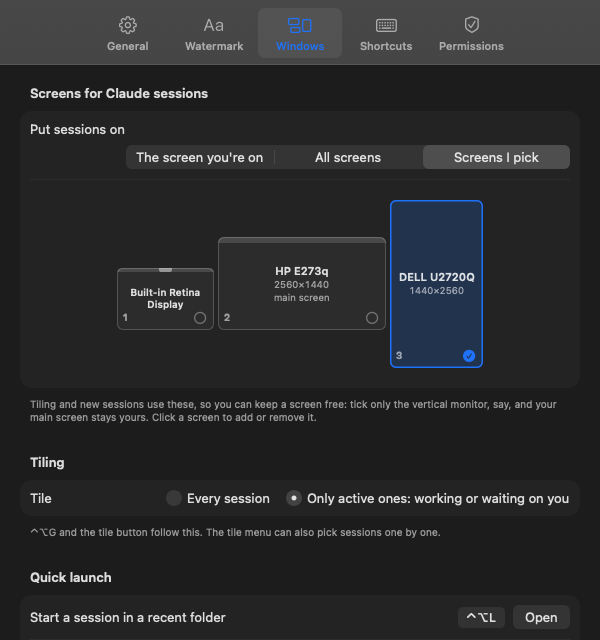
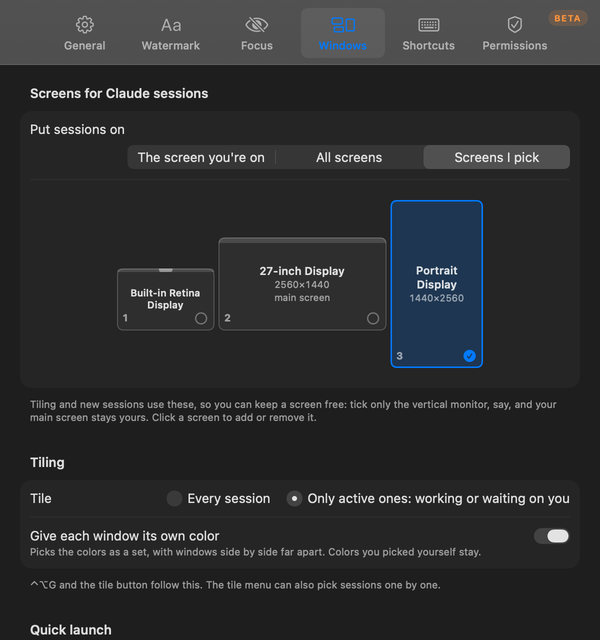
Demo displays get generic names (renders, tests, site and README screenshots)
Claude-Session: https://claude.ai/code/session_015b5oNbYrBUp2FJnxKCXLaE

diff --git a/test/tile.test.js b/test/tile.test.js
@@ -17,20 +17,20 @@ const L = await import('../lib/launch.js');
 // A laptop (left, notch), a landscape main screen, and a portrait monitor on the right.
 const screens = S.sortScreens(
   [
-    { uuid: 'MAIN', name: 'HP E273q', primary: true, current: true, full: { x: 0, y: 0, w: 2560, h: 1440 }, frame: { x: 0, y: 30, w: 2560, h: 1328 } },
+    { uuid: 'MAIN', name: '27-inch Display', primary: true, current: true, full: { x: 0, y: 0, w: 2560, h: 1440 }, frame: { x: 0, y: 30, w: 2560, h: 1328 } },
     { uuid: 'LAPTOP', name: 'Built-in Retina Display', builtin: true, notch: 32, full: { x: -1512, y: 458, w: 1512, h: 982 }, frame: { x: -1512, y: 490, w: 1512, h: 950 } },
-    { uuid: null, name: 'DELL U2720Q', full: { x: 2560, y: -600, w: 1440, h: 2560 }, frame: { x: 2560, y: -575, w: 1440, h: 2535 } },
+    { uuid: null, name: 'Portrait Display', full: { x: 2560, y: -600, w: 1440, h: 2560 }, frame: { x: 2560, y: -575, w: 1440, h: 2535 } },
   ].map((s) => ({ ...s, key: S.screenKey(s), portrait: s.full.h > s.full.w })),
 );
 
 test('screens are keyed by display UUID, or name and size when macOS has none', () => {
-  assert.deepEqual(screens.map((s) => s.key), ['LAPTOP', 'MAIN', 'DELL U2720Q@1440x2560']);
+  assert.deepEqual(screens.map((s) => s.key), ['LAPTOP', 'MAIN', 'Portrait Display@1440x2560']);
   assert.ok(screens[2].portrait);
-  assert.match(S.describe(screens[1]), /HP E273q {2}2560×1440 {2}\(main, current\)/);
+  assert.match(S.describe(screens[1]), /27-inch Display {2}2560×1440 {2}\(main, current\)/);
 });
 
 test('a second display that reports no menu-bar inset gets one (its windows would be pushed down)', () => {
-  const dell = { uuid: 'DELL', name: 'DELL P2721Q', menuBar: 30, separateSpaces: true, full: { x: 2560, y: 0, w: 1080, h: 1920 }, frame: { x: 2560, y: 0, w: 1080, h: 1920 } };
+  const dell = { uuid: 'DELL', name: 'Portrait Display', menuBar: 30, separateSpaces: true, full: { x: 2560, y: 0, w: 1080, h: 1920 }, frame: { x: 2560, y: 0, w: 1080, h: 1920 } };
   assert.deepEqual(S.usable(dell), { x: 2560, y: 30, w: 1080, h: 1890 }, 'the menu bar is taken off the top');
   assert.deepEqual(S.usable({ ...dell, frame: { x: 2560, y: 30, w: 1080, h: 1890 } }), { x: 2560, y: 30, w: 1080, h: 1890 }, 'an inset that is there stays as it is');
   assert.deepEqual(S.usable({ ...dell, separateSpaces: false }), dell.frame, 'with one Space across displays only the main one has a menu bar');
@@ -42,8 +42,8 @@ test('a second display that reports no menu-bar inset gets one (its windows woul
 });
 
 test('picking screens by number, name or key; "all" and "current"', () => {
-  assert.deepEqual(S.parseSelection('3', screens), { value: ['DELL U2720Q@1440x2560'] });
-  assert.deepEqual(S.parseSelection('dell, 1', screens), { value: ['DELL U2720Q@1440x2560', 'LAPTOP'] });
+  assert.deepEqual(S.parseSelection('3', screens), { value: ['Portrait Display@1440x2560'] });
+  assert.deepEqual(S.parseSelection('portrait, 1', screens), { value: ['Portrait Display@1440x2560', 'LAPTOP'] });
   assert.deepEqual(S.parseSelection('all', screens), { value: 'all' });
   assert.deepEqual(S.parseSelection('', screens), { value: 'current' });
   assert.match(S.parseSelection('7', screens).error, /No screen "7"/);
@@ -52,9 +52,9 @@ test('picking screens by number, name or key; "all" and "current"', () => {
 test('only the chosen screens are used, and an unplugged one falls back', () => {
   assert.deepEqual(S.chooseScreens(screens, 'current').screens.map((s) => s.key), ['MAIN']);
   assert.equal(S.chooseScreens(screens, 'all').screens.length, 3);
-  const vertical = S.chooseScreens(screens, ['DELL U2720Q@1440x2560']);
-  assert.deepEqual(vertical.screens.map((s) => s.name), ['DELL U2720Q'], 'the main screen stays free');
-  const half = S.chooseScreens(screens, ['DELL U2720Q@1440x2560', 'GONE']);
+  const vertical = S.chooseScreens(screens, ['Portrait Display@1440x2560']);
+  assert.deepEqual(vertical.screens.map((s) => s.name), ['Portrait Display'], 'the main screen stays free');
+  const half = S.chooseScreens(screens, ['Portrait Display@1440x2560', 'GONE']);
   assert.equal(half.screens.length, 1);
   assert.match(half.note, /isn't connected/);
   const none = S.chooseScreens(screens, ['GONE']);
@@ -145,8 +145,8 @@ test('tabby new: the command, the terminal and where the window goes', () => {
   assert.equal(L.pickTerminal(undefined, 'vscode', [{ term: 'iterm2' }, { term: 'iterm2' }, { term: 'apple-terminal' }]), 'iterm2', 'from an editor: the terminal your sessions use');
   assert.equal(L.pickTerminal(undefined, 'generic', []), 'apple-terminal');
   assert.equal(L.placement(undefined, { tileScreens: 'current' }, screens), null, 'default: wherever the terminal opens it');
-  const vertical = L.placement(undefined, { tileScreens: ['DELL U2720Q@1440x2560'] }, screens);
-  assert.equal(vertical.screen.name, 'DELL U2720Q');
+  const vertical = L.placement(undefined, { tileScreens: ['Portrait Display@1440x2560'] }, screens);
+  assert.equal(vertical.screen.name, 'Portrait Display');
   const [l, t, r, b] = vertical.rect;
   assert.ok(l > 2560 && r < 4000 && t > -575 && b < 1960, 'centered on the vertical monitor');
   assert.equal(L.placement('1', {}, screens).screen.key, 'LAPTOP');

diff --git a/island/Sources/WindowsSnapshots.swift b/island/Sources/WindowsSnapshots.swift
@@ -9,8 +9,8 @@ extension Snapshotter {
         // only on the vertical one.
         ScreenInfo.override = [
             ScreenInfo(key: "LAPTOP", name: "Built-in Retina Display", frame: CGRect(x: -1512, y: 0, width: 1512, height: 982), hasNotch: true),
-            ScreenInfo(key: "MAIN", name: "HP E273q", frame: CGRect(x: 0, y: 0, width: 2560, height: 1440), isPrimary: true),
-            ScreenInfo(key: "DELL", name: "DELL U2720Q", frame: CGRect(x: 2560, y: -560, width: 1440, height: 2560)),
+            ScreenInfo(key: "MAIN", name: "27-inch Display", frame: CGRect(x: 0, y: 0, width: 2560, height: 1440), isPrimary: true),
+            ScreenInfo(key: "DELL", name: "Portrait Display", frame: CGRect(x: 2560, y: -560, width: 1440, height: 2560)),
         ]
         let island = IslandController(store: store, inert: true)
         for appearance in [NSAppearance.Name.aqua, .darkAqua] {
@@ -35,7 +35,7 @@ extension Snapshotter {
         let picker = TilePickerModel()
         picker.sessions = sessions
         picker.selectActive()
-        picker.screensText = "DELL U2720Q"
+        picker.screensText = "Portrait Display"
         render(TilePickerView(model: picker, tile: {}, cancel: {}), size: TilePickerController.size(for: sessions.count),
                to: folder.appendingPathComponent("tile-picker.png"))
 

diff --git a/site/index.html b/site/index.html
@@ -372,7 +372,7 @@
 
     <ul class="cards cards-windows">
       <li class="card reveal" style="--i:0">
-        <div class="card-shot shot-screens"><img src="/assets/ui/screens.webp?v=20261002a" alt="Settings › Windows: a map of three displays, with only the vertical Dell monitor picked for Claude sessions" width="1200" height="720" loading="lazy" decoding="async"></div>
+        <div class="card-shot shot-screens"><img src="/assets/ui/screens.webp?v=20261012a" alt="Settings › Windows: a map of three displays, with only the portrait display picked for Claude sessions" width="1200" height="720" loading="lazy" decoding="async"></div>
         <h3>Keep your main screen free.</h3>
         <p>Choose which screens get sessions: the one you're on, all of them, or the ones you pick. Tick only your vertical monitor, and your main screen stays yours.</p>
       </li>

diff --git a/lib/screens.js b/lib/screens.js
@@ -77,7 +77,7 @@ export function parseSelection(input, screens) {
   if (/^all$/i.test(text)) return { value: 'all' };
   const keys = [];
   for (const raw of text.split(',').map((t) => t.trim()).filter(Boolean)) {
-    // A plain number is always a position in the list ("7" is not part of "U2720Q").
+    // A plain number is always a position in the list ("7" is not part of "Portrait Display").
     const hit = /^\d+$/.test(raw)
       ? screens[Number(raw) - 1]
       : screens.find((s) => s.key === raw) || screens.find((s) => (s.name || '').toLowerCase().includes(raw.toLowerCase()));

diff --git a/lib/tile.js b/lib/tile.js
@@ -366,7 +366,7 @@ export function tileTtys(app, ttys, n, { dryRun = false, screens = [FALLBACK_SCR
   return { placed: good.length, grid: gridName, lines: notes, cells: placedCells };
 }
 
-// "a 2×2 grid" on one screen; "2×2 on HP E273q and 1×2 on Built-in Retina Display" on several.
+// "a 2×2 grid" on one screen; "2×2 on 27-inch Display and 1×2 on Built-in Retina Display" on several.
 export function gridSummary(cellsOn, screens) {
   const parts = screens
     .map((screen) => {

diff --git a/README.md b/README.md
@@ -203,7 +203,7 @@ Tiling also gives each window its own color, picked as a set: every window a dif
 
 <table>
 <tr>
-<td width="50%"><img src="docs/images/screens.png" alt="Settings › Windows: a map of three displays, with only the vertical Dell monitor picked for Claude sessions, and tiling set to only active sessions"></td>
+<td width="50%"><img src="docs/images/screens.png" alt="Settings › Windows: a map of three displays, with only the portrait display picked for Claude sessions, and tiling set to only active sessions"></td>
 <td width="50%"><img src="docs/images/quick-launch.png" alt="Quick launch: folders matching wild, with how many sessions run in each, a name field, and the Skip permissions checkbox ticked with its warning"></td>
 </tr>
 <tr>
